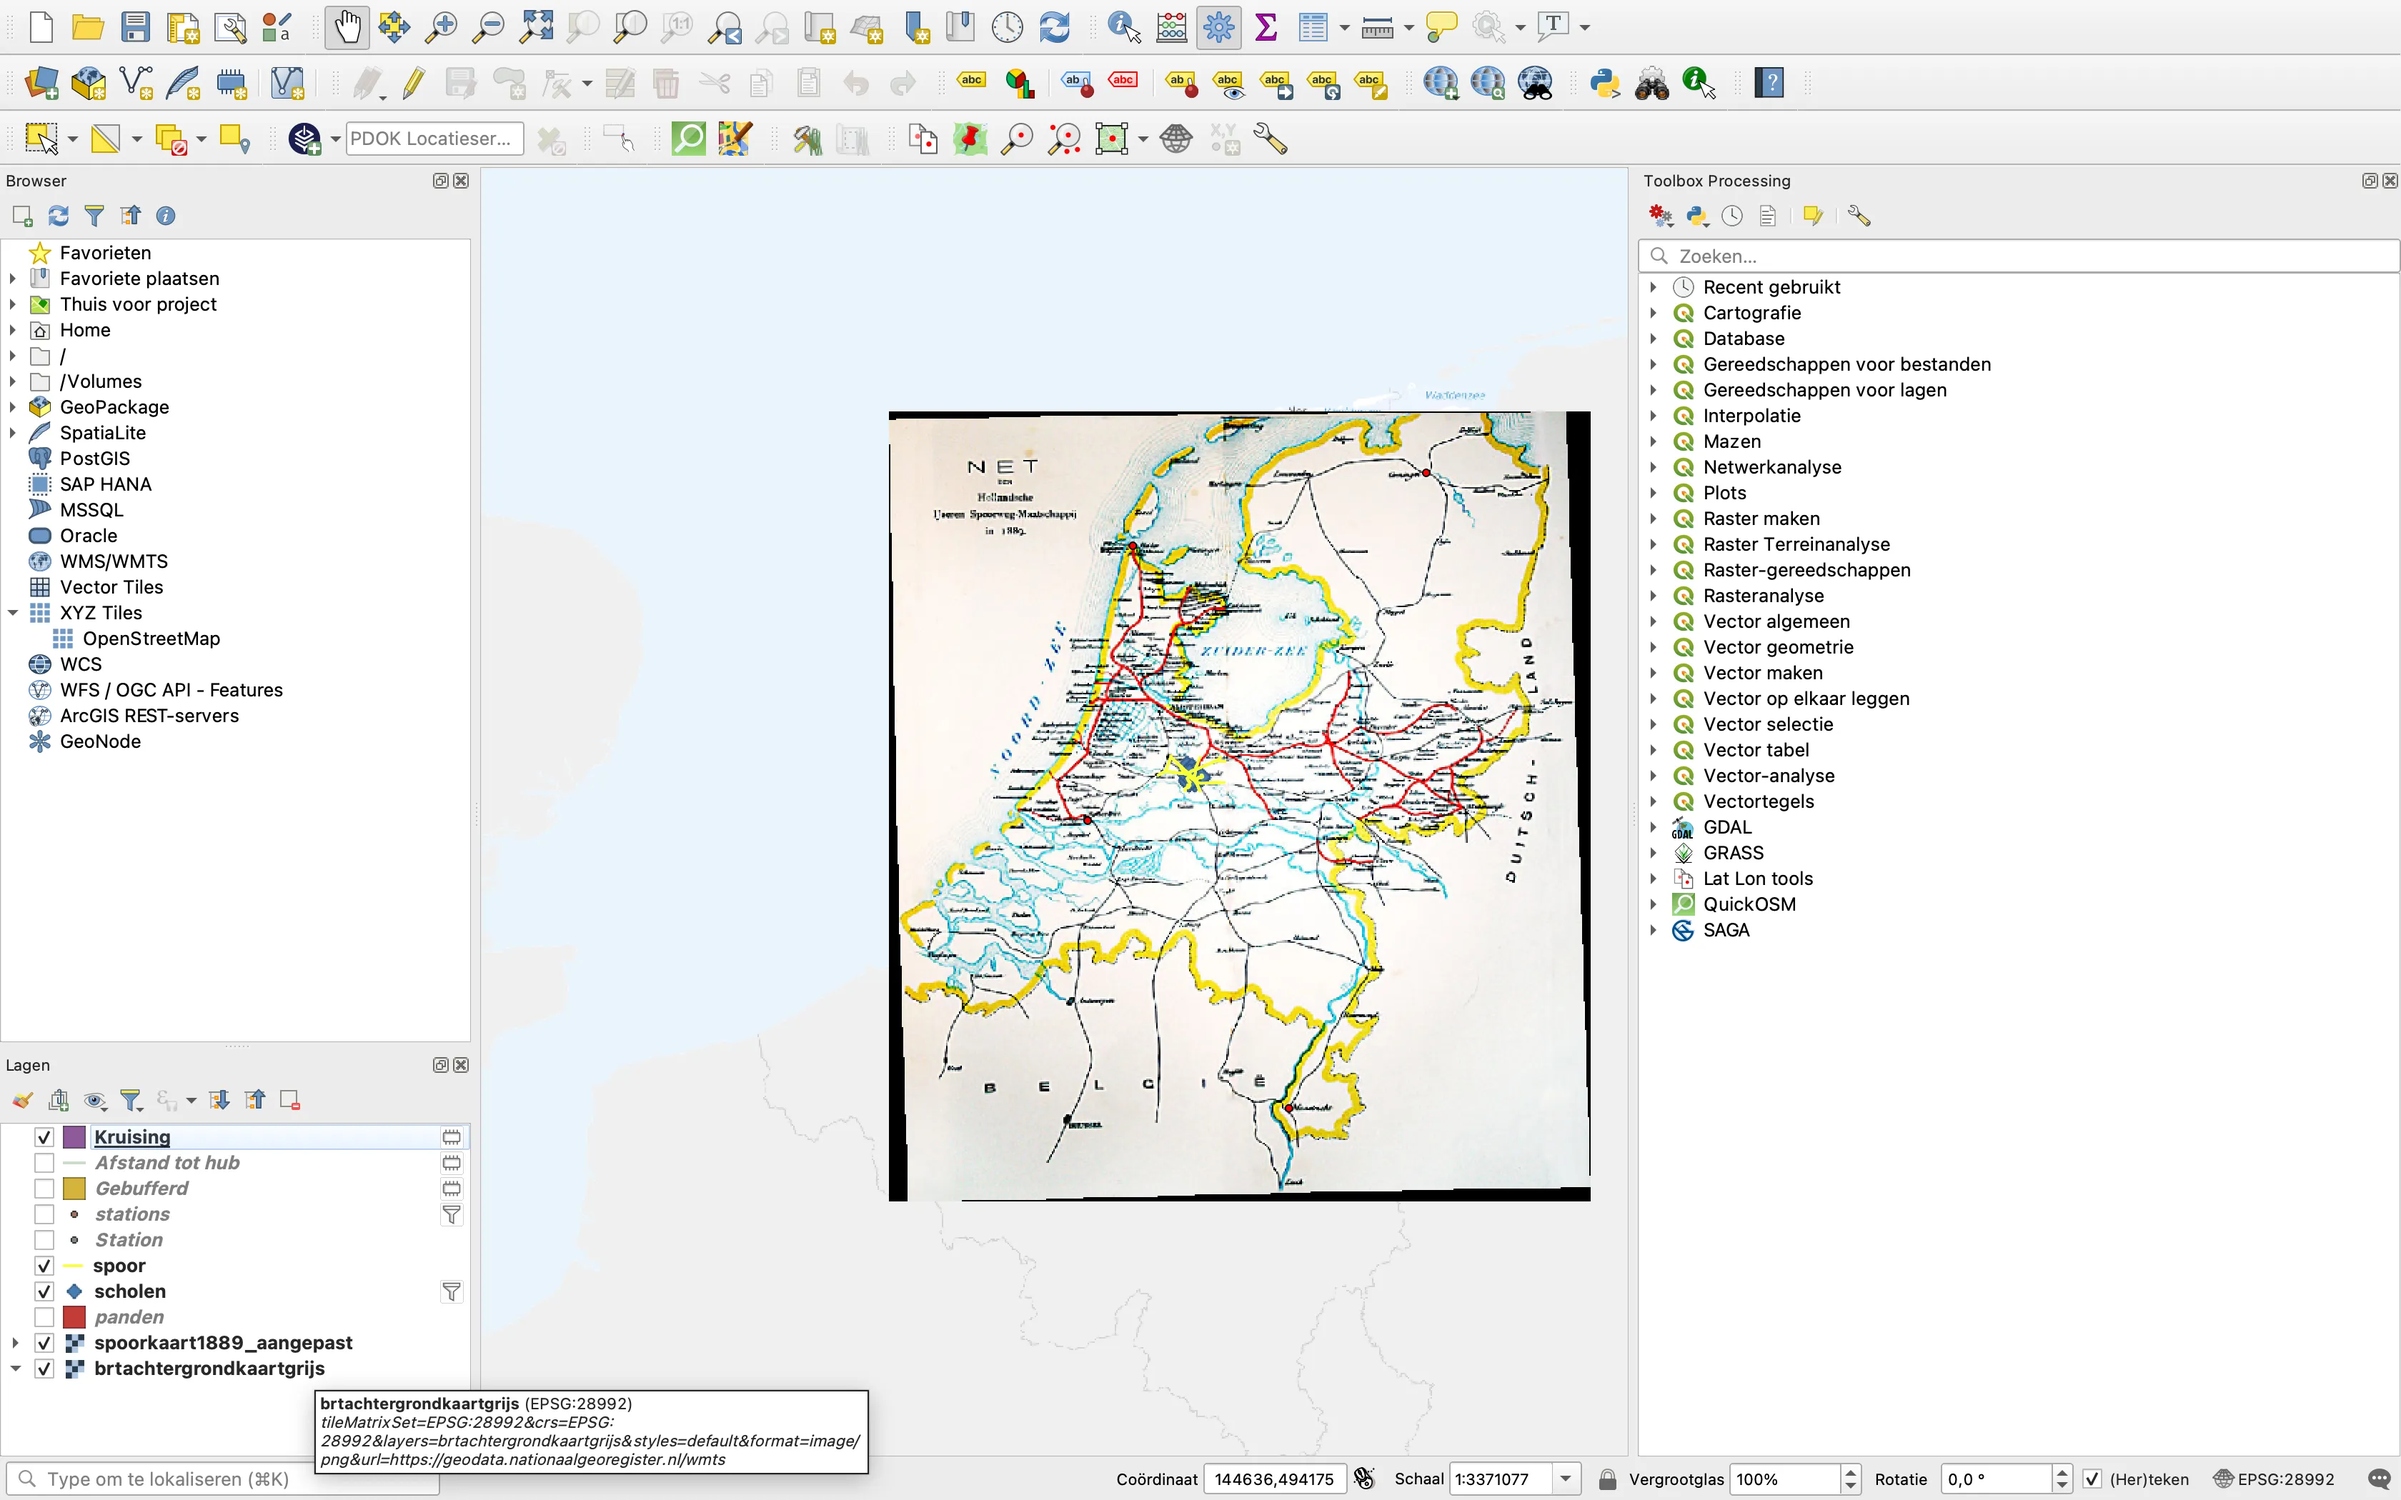
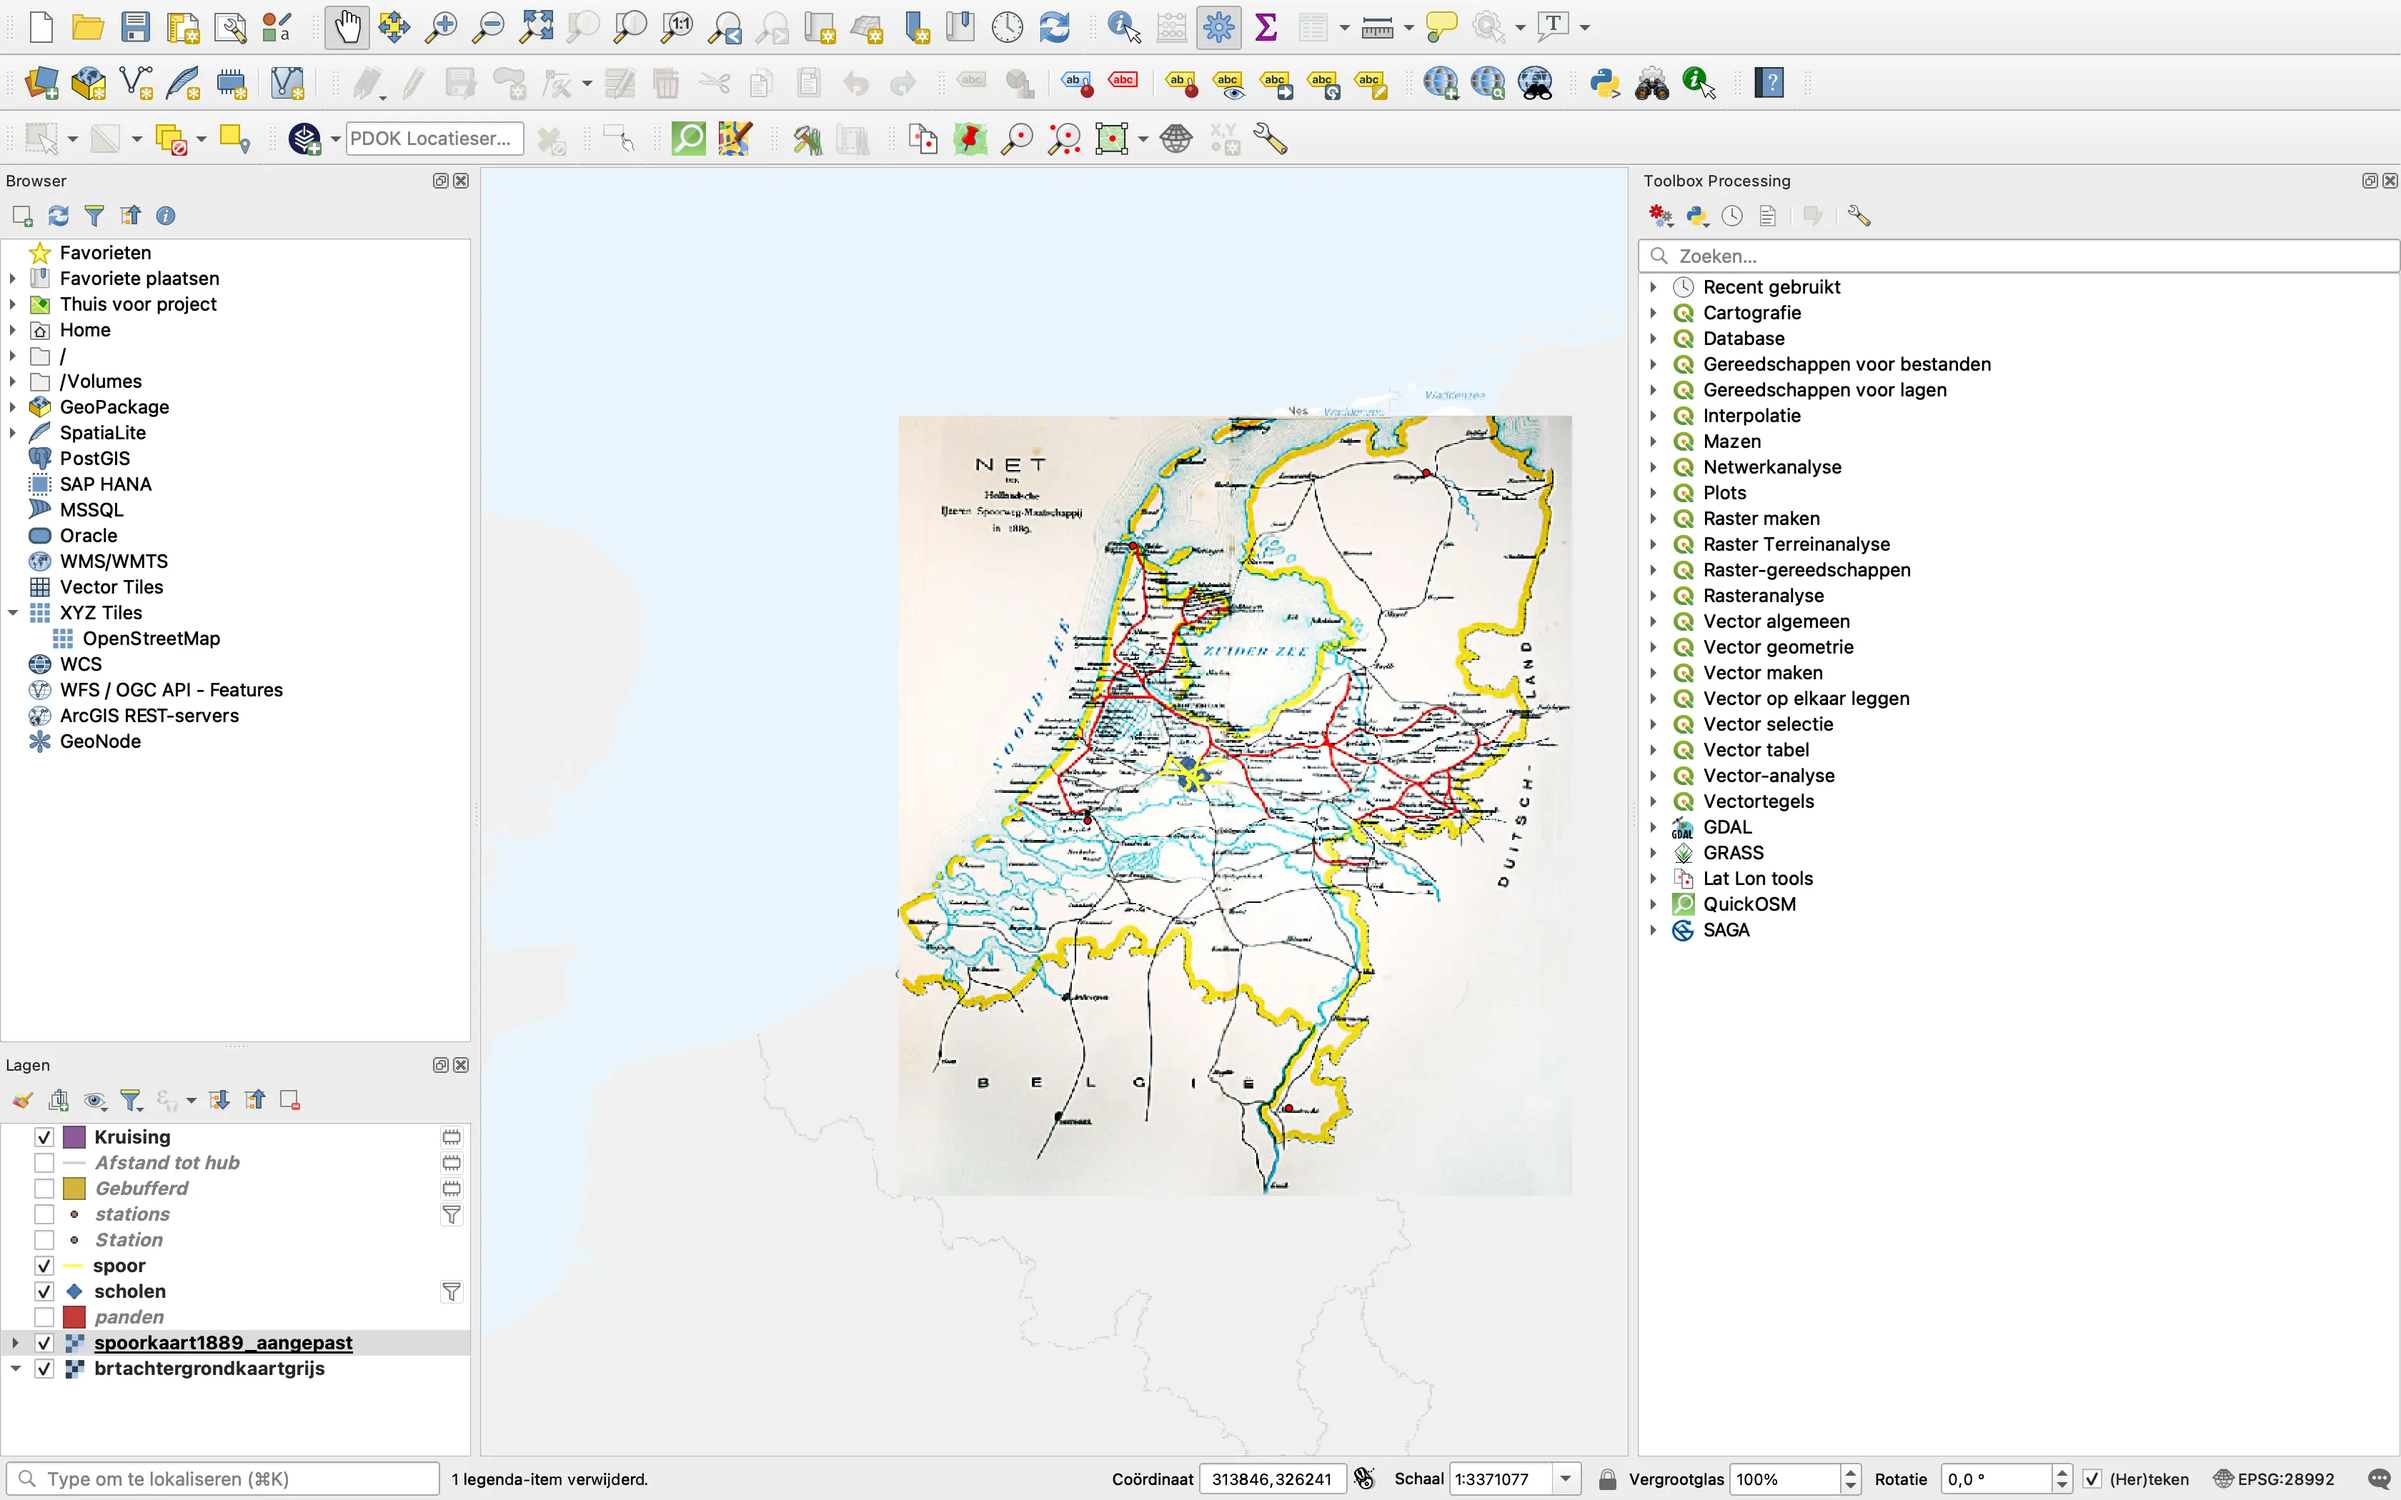
add tekst

diff --git a/explain/verdieping/verdieping.html b/explain/verdieping/verdieping.html
@@ -306,9 +306,16 @@
             <section id="georefereren">
                 <h2>Georefereren</h2>
                 <p>
-                    In dit voorbeeld wordt getoond hoe je een kaart kan georefereren. Er wordt als het ware een kaart
-                    over jouw kaart heen geplakt op de exacte plek waar deze hoort. Download hiervoor het databestand
-                    <code>spoorkaart1889</code>. Ga in QGIS naar <code>raster</code>, en vervolgens naar
+                    In dit voorbeeld wordt getoond hoe je een kaart kan georefereren. Dit houdt in dat er digitaal een
+                    oude (historische) kaart over een moderne kaart wordt geplakt.
+                    De oude kaart kan je, door middel van coördinaten, zo plaatsen dat deze op de juiste plaats over de
+                    moderne kaart valt. Door middel van georefereren is het makkelijker om de twee kaarten te
+                    vergelijken met elkaar en zo veranderingen in de tijd de vinden.
+                </p>
+                <br>
+                <p>
+                    Voor deze opdracht download je het databestand
+                    <code>spoorkaart1889</code>. Ga vervolgens in QGIS naar <code>raster</code>, en daarna naar
                     <code>Georeferencing</code>.
                 </p>
                 <div class="image-wrapper image-middle">
@@ -328,7 +335,7 @@
                     aan oude plaatsen.
                     Klik op <code>add point</code> en kies een plek op de kaart die door de jaren heen ongeveer
                     hetzelfde is gebleven. Als voorbeeld is
-                    Den Helder als punt gekozen.
+                    <em>Den Helder</em> als punt gekozen.
                 </p>
                 <div class="image-wrapper image-middle">
                     <img loading="lazy" src="../../media/verdieping/georefereren/georefereren3.webp" alt="">
@@ -342,7 +349,7 @@
                     <img loading="lazy" src="../../media/verdieping/georefereren/georefereren4.webp" alt="">
                 </div>
                 <p>
-                    Direct komt de orginele kaart weer in beeld. Markeer hier hetzelfde punt. 
+                    Direct komt de orginele kaart weer in beeld. Markeer hier hetzelfde punt.
                 </p>
                 <div class="image-wrapper image-middle">
                     <img loading="lazy" src="../../media/verdieping/georefereren/georefereren5.webp" alt="">
@@ -354,25 +361,30 @@
                     <img loading="lazy" src="../../media/verdieping/georefereren/georefereren6.webp" alt="">
                 </div>
                 <p>
-                    Kies <code>settings</code> en dan <code>transformation settings</code> om aan te geven hoe de kaart getransformeerd moet worden. 
+                    Kies <code>settings</code> en dan <code>transformation settings</code> om aan te geven hoe de kaart
+                    getransformeerd moet worden.
                 </p>
                 <div class="image-wrapper image-middle">
                     <img loading="lazy" src="../../media/verdieping/georefereren/georefereren7.webp" alt="">
                 </div>
                 <p>
-                    In dit voorbeeld is gekozen voor een <em>Thin Plate Spline</em>, maar kijk gerust eens wat de andere opties doen. Klik op <code>ok</code> als je een keuze hebt gemaakt. Let erop dat je <code>Load in QGIS when done</code> aanvinkt, anders wordt de kaart <b>niet</b> ingeladen
+                    In dit voorbeeld is gekozen voor een <em>Thin Plate Spline</em>, maar kijk gerust eens wat de andere
+                    opties doen. Klik op <code>OK</code> als je een keuze hebt gemaakt. Let erop dat je
+                    <code>Load in QGIS when done</code> aanvinkt, anders wordt de kaart <b>niet</b> ingeladen. Let er
+                    ook op het CRS (Coördinaten ReferentieSysteem) (<code>Target SRS</code>) overeenkomt met het het CRS van de moderne kaart.
                 </p>
                 <div class="image-wrapper image-middle">
                     <img loading="lazy" src="../../media/verdieping/georefereren/georefereren8.webp" alt="">
                 </div>
                 <p>
-                    Vervolgens kan het Georefereren gestart worden door te kiezen voor <code>file</code> en <code>Start Georeferencing</code>.
+                    Vervolgens kan het Georefereren gestart worden door te kiezen voor <code>file</code> en
+                    <code>Start Georeferencing</code>.
                 </p>
                 <div class="image-wrapper image-middle">
                     <img loading="lazy" src="../../media/verdieping/georefereren/georefereren9.webp" alt="">
                 </div>
                 <p>
-                    Je ziet nu dat de kaart precies over de nederlandse achtergrondkaart is geplakt. 
+                    Je ziet nu dat de kaart precies over de Nederlandse achtergrondkaart is geplakt.
                 </p>
                 <div class="image-wrapper image-middle">
                     <img loading="lazy" src="../../media/verdieping/georefereren/georefereren10.webp" alt="">

diff --git a/index.html b/index.html
@@ -61,7 +61,7 @@
             <p>
                 Deze QGIS handleiding is gemaakt door vijf studenten van de Hogeschool Utrecht tijdens de minor
                 Datavisualisatie en Infographics in het schooljaar 2021/2022.
-                In deze handleiding wordt er onder andere een uitleg (basis en verdieping) gegeven over het programma
+                In deze handleiding wordt er een uitleg (basis en verdieping) gegeven over het programma
                 QGIS.
             </p>
             <br>
@@ -82,7 +82,7 @@
                 </p>
                 <h2><em>Waar is QGIS voor te gebruiken?</em></h2>
                 <p>
-                    QGIS is een eenvoudig te gebruiken GIS dat algemene functies en mogelijkheden biedt. In het begin
+                    QGIS is een eenvoudig te gebruiken GIS (Geografisch Informatie Systeem) dat algemene functies en mogelijkheden biedt. In het begin
                     was QGIS alleen voor het bekijken van gegevens. QGIS heeft het punt in zijn evolutie bereikt waarop
                     het door velen wordt gebruikt voor het dagelijks noodzakelijk zichtbaar maken van GIS-gegevens. QGIS
                     ondersteunt een groot aantal indelingen voor raster- en vectorgegevens, waarbij nieuwe indelingen

diff --git a/explain/explain.html b/explain/explain.html
@@ -103,7 +103,7 @@
                     </div>
                 </section>
                 <section id="data">
-                    <h1>Download Dataset</h1>
+                    <h1>Download dataset</h1>
                     <p>
                         Download hieronder de dataset die bij deze tutorial hoort.
                     </p>
